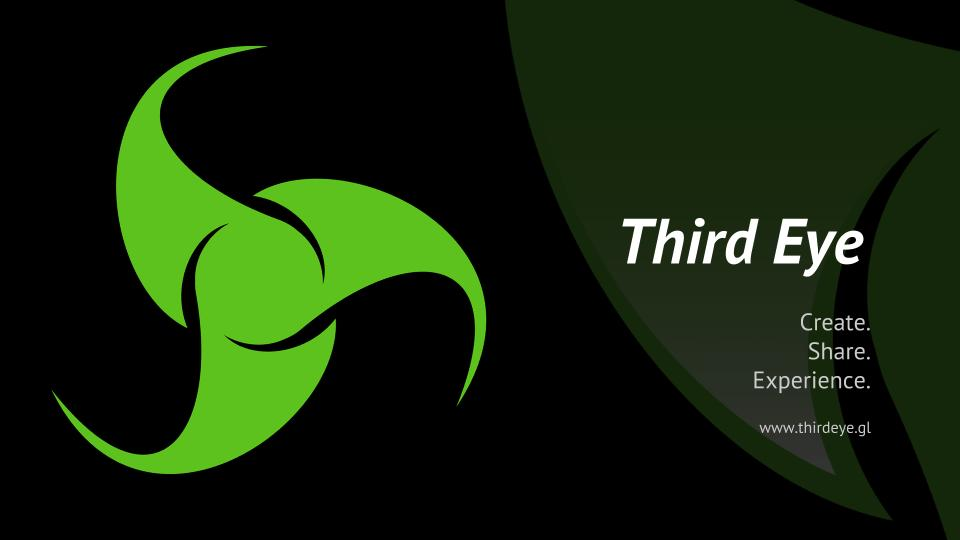
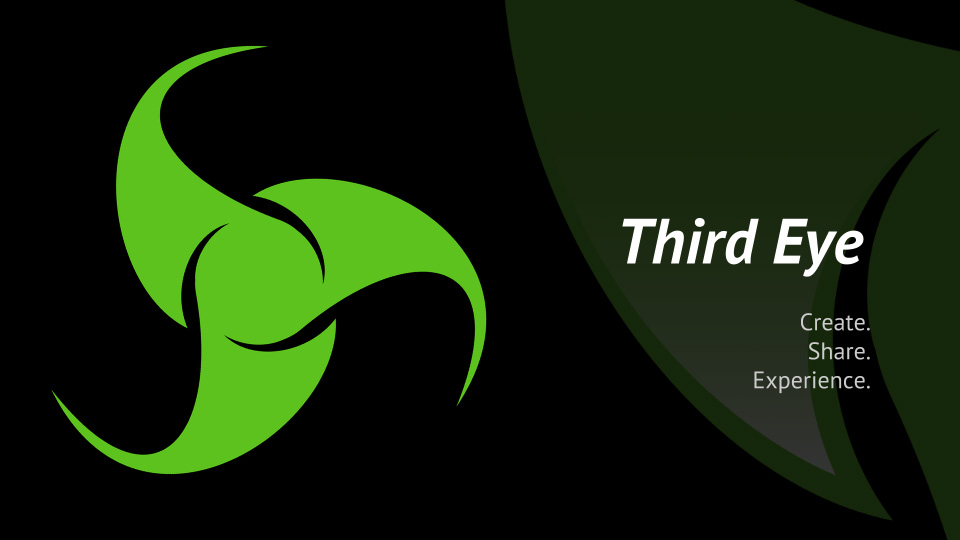
no message

diff --git a/src/index.html b/src/index.html
@@ -10,13 +10,29 @@
 
     <!-- font awesome from BootstrapCDN -->
     <link href="http://netdna.bootstrapcdn.com/font-awesome/4.0.3/css/font-awesome.css" rel="stylesheet">
-    <link href='http://fonts.googleapis.com/css?family=Oswald:400,700,300' rel='stylesheet' type='text/css'>
+    <link href='http://fonts.googleapis.com/css?family=PT+Sans:400,400italic' rel='stylesheet' type='text/css'>
 
-    <!-- compiled CSS --><% styles.forEach( function ( file ) { %>
-    <link rel="stylesheet" type="text/css" href="site/<%= file %>" /><% }); %>
+    <!-- compiled CSS -->
+    <link rel="stylesheet" type="text/css" href="site/ngbp-0.3.2.css" />
     <link href="site/css/3eye.min.css" rel="stylesheet" media="screen">
-    <!-- compiled JavaScript --><% scripts.forEach( function ( file ) { %>
-    <script type="text/javascript" src="site/<%= file %>"></script><% }); %>
+    <!-- compiled JavaScript -->
+    <script type="text/javascript" src="site/vendor/angular/angular.js"></script>
+    <script type="text/javascript" src="site/vendor/angular-bootstrap/ui-bootstrap-tpls.min.js"></script>
+    <script type="text/javascript" src="site/vendor/placeholders/angular-placeholders-0.0.1-SNAPSHOT.min.js"></script>
+    <script type="text/javascript" src="site/vendor/angular-ui-router/release/angular-ui-router.js"></script>
+    <script type="text/javascript" src="site/vendor/scripts/jquery.min.js"></script>
+    <script type="text/javascript" src="site/vendor/scripts/bootstrap.min.js"></script>
+    <script type="text/javascript" src="site/vendor/scripts/jquery.mobile-events.min.js"></script>
+    <script type="text/javascript" src="site/vendor/scripts/velocity.min.js"></script>
+    <script type="text/javascript" src="site/vendor/scripts/velocity.ui.min.js"></script>
+    <script type="text/javascript" src="site/vendor/scripts/init.js"></script>
+    <script type="text/javascript" src="site/src/app/about/about.js"></script>
+    <script type="text/javascript" src="site/src/app/app.js"></script>
+    <script type="text/javascript" src="site/src/app/faq/faq.js"></script>
+    <script type="text/javascript" src="site/src/app/home/home.js"></script>
+    <script type="text/javascript" src="site/src/common/plusOne/plusOne.js"></script>
+    <script type="text/javascript" src="site/templates-common.js"></script>
+    <script type="text/javascript" src="site/templates-app.js"></script>
         <!--
  ______   __  __     __     ______     _____     ______     __  __     ______    
 /\__  _\ /\ \_\ \   /\ \   /\  == \   /\  __-.  /\  ___\   /\ \_\ \   /\  ___\   
@@ -34,13 +50,28 @@
   <body class='glamBody' >
     <div class="hUnit" style="position:relative;">
       <img src="site/images/bg.jpg" style="float:left; width:100%; margin-top: 25px;"/>
-      <div class="glamUp1">
+
+      <!-- <div class="hTxt" style="position:absolute; z-index:999; right: 10%; top: 60%; display:none">
+          <h1 style="color:#fff; font-size:140%">Third Eye</h1>
+          <div style="float:right; width:100%; color: #cacaca; font-size:100%">
+            Create.
+          </div>
+          <div style="float:right; width:100%; color: #cacaca; font-size:100%">
+            Share.
+          </div>
+          <div style="float:right; width:100%; color: #cacaca; font-size:100%">
+            Experience.
+          </div>
+
+      </div> -->
+
+      <div class="glamUp1 thirdEyeLnksVis">
         <a href="https://www.kickstarter.com/projects/dodocase/diy-virtual-reality-open-source-future" target="_blank">
         kick<span style="color:#2bde73">starter</span>
       </a>
       </div>
 
-      <div class="glamUp2">
+      <div class="glamUp2 thirdEyeLnksVis">
         <a href="http://glamjs.org" target="_blank">
         visit the <span style="color:#c81100">GLAM</span> project page
       </a>
@@ -60,6 +91,8 @@
           <div class="navbar-header">
             <a class="navbar-brand logoLnk" > Third Eye </a>
             <a class="demoLnk navbar-brand logoLnk"  href="#about" > About </a>
+            <a class="navbar-brand logoLnk thirdEyeLnks"  href="https://www.kickstarter.com/projects/dodocase/diy-virtual-reality-open-source-future" target="_blank" > kick<span style="color:#2bde73">starter</span> </a>
+            <a class=" navbar-brand logoLnk thirdEyeLnks"  href="http://glamjs.org" target="_blank" > visit the <span style="color:#c81100">GLAM</span> project page </a>
             <a class="demoLnk navbar-brand logoLnk"  href="mailto:tparisi@gmail.com?Subject=Third%20Eye%20Inquiry" > Contact </a>
 
 

diff --git a/build/index.html b/build/index.html
@@ -10,7 +10,7 @@
 
     <!-- font awesome from BootstrapCDN -->
     <link href="http://netdna.bootstrapcdn.com/font-awesome/4.0.3/css/font-awesome.css" rel="stylesheet">
-    <link href='http://fonts.googleapis.com/css?family=Oswald:400,700,300' rel='stylesheet' type='text/css'>
+    <link href='http://fonts.googleapis.com/css?family=PT+Sans:400,400italic' rel='stylesheet' type='text/css'>
 
     <!-- compiled CSS -->
     <link rel="stylesheet" type="text/css" href="site/ngbp-0.3.2.css" />
@@ -50,13 +50,28 @@
   <body class='glamBody' >
     <div class="hUnit" style="position:relative;">
       <img src="site/images/bg.jpg" style="float:left; width:100%; margin-top: 25px;"/>
-      <div class="glamUp1">
+
+      <!-- <div class="hTxt" style="position:absolute; z-index:999; right: 10%; top: 60%; display:none">
+          <h1 style="color:#fff; font-size:140%">Third Eye</h1>
+          <div style="float:right; width:100%; color: #cacaca; font-size:100%">
+            Create.
+          </div>
+          <div style="float:right; width:100%; color: #cacaca; font-size:100%">
+            Share.
+          </div>
+          <div style="float:right; width:100%; color: #cacaca; font-size:100%">
+            Experience.
+          </div>
+
+      </div> -->
+
+      <div class="glamUp1 thirdEyeLnksVis">
         <a href="https://www.kickstarter.com/projects/dodocase/diy-virtual-reality-open-source-future" target="_blank">
         kick<span style="color:#2bde73">starter</span>
       </a>
       </div>
 
-      <div class="glamUp2">
+      <div class="glamUp2 thirdEyeLnksVis">
         <a href="http://glamjs.org" target="_blank">
         visit the <span style="color:#c81100">GLAM</span> project page
       </a>
@@ -76,6 +91,8 @@
           <div class="navbar-header">
             <a class="navbar-brand logoLnk" > Third Eye </a>
             <a class="demoLnk navbar-brand logoLnk"  href="#about" > About </a>
+            <a class="navbar-brand logoLnk thirdEyeLnks"  href="https://www.kickstarter.com/projects/dodocase/diy-virtual-reality-open-source-future" target="_blank" > kick<span style="color:#2bde73">starter</span> </a>
+            <a class=" navbar-brand logoLnk thirdEyeLnks"  href="http://glamjs.org" target="_blank" > visit the <span style="color:#c81100">GLAM</span> project page </a>
             <a class="demoLnk navbar-brand logoLnk"  href="mailto:tparisi@gmail.com?Subject=Third%20Eye%20Inquiry" > Contact </a>
 
 

diff --git a/index.html b/index.html
@@ -10,7 +10,7 @@
 
     <!-- font awesome from BootstrapCDN -->
     <link href="http://netdna.bootstrapcdn.com/font-awesome/4.0.3/css/font-awesome.css" rel="stylesheet">
-    <link href='http://fonts.googleapis.com/css?family=Oswald:400,700,300' rel='stylesheet' type='text/css'>
+    <link href='http://fonts.googleapis.com/css?family=PT+Sans:400,400italic' rel='stylesheet' type='text/css'>
 
     <!-- compiled CSS -->
     <link rel="stylesheet" type="text/css" href="site/ngbp-0.3.2.css" />
@@ -50,13 +50,28 @@
   <body class='glamBody' >
     <div class="hUnit" style="position:relative;">
       <img src="site/images/bg.jpg" style="float:left; width:100%; margin-top: 25px;"/>
-      <div class="glamUp1">
+
+      <!-- <div class="hTxt" style="position:absolute; z-index:999; right: 10%; top: 60%; display:none">
+          <h1 style="color:#fff; font-size:140%">Third Eye</h1>
+          <div style="float:right; width:100%; color: #cacaca; font-size:100%">
+            Create.
+          </div>
+          <div style="float:right; width:100%; color: #cacaca; font-size:100%">
+            Share.
+          </div>
+          <div style="float:right; width:100%; color: #cacaca; font-size:100%">
+            Experience.
+          </div>
+
+      </div> -->
+
+      <div class="glamUp1 thirdEyeLnksVis">
         <a href="https://www.kickstarter.com/projects/dodocase/diy-virtual-reality-open-source-future" target="_blank">
         kick<span style="color:#2bde73">starter</span>
       </a>
       </div>
 
-      <div class="glamUp2">
+      <div class="glamUp2 thirdEyeLnksVis">
         <a href="http://glamjs.org" target="_blank">
         visit the <span style="color:#c81100">GLAM</span> project page
       </a>
@@ -76,6 +91,8 @@
           <div class="navbar-header">
             <a class="navbar-brand logoLnk" > Third Eye </a>
             <a class="demoLnk navbar-brand logoLnk"  href="#about" > About </a>
+            <a class="navbar-brand logoLnk thirdEyeLnks"  href="https://www.kickstarter.com/projects/dodocase/diy-virtual-reality-open-source-future" target="_blank" > kick<span style="color:#2bde73">starter</span> </a>
+            <a class=" navbar-brand logoLnk thirdEyeLnks"  href="http://glamjs.org" target="_blank" > visit the <span style="color:#c81100">GLAM</span> project page </a>
             <a class="demoLnk navbar-brand logoLnk"  href="mailto:tparisi@gmail.com?Subject=Third%20Eye%20Inquiry" > Contact </a>
 
 

diff --git a/build/site/css/3eye.min.css b/build/site/css/3eye.min.css
@@ -7,6 +7,11 @@
     -webkit-text-size-adjust: 100%;
     -ms-text-size-adjust: 100%;
 }
+
+.thirdEyeLnksVis{
+        display: none;
+}
+
 .glamUp1 a, .glamUp2 a, .glamUp1 a:active, .glamUp2 a:active, .glamUp1 a:hover, .glamUp2 a:hover{
     color:#fff;
     text-decoration: none;
@@ -4119,6 +4124,7 @@ textarea.input-group-sm>.form-control,textarea.input-group-sm>.input-group-addon
 }
 
 .navbar-collapse {
+
     padding-right: 15px;
     padding-left: 15px;
     overflow-x: visible;
@@ -6522,6 +6528,17 @@ button.close {
     }
 }
 
+@media (max-width:689px) {
+    
+    .thirdEyeLnks{
+        display: none;
+    }
+
+    .thirdEyeLnksVis{
+        display: block;
+    }
+}
+
 @media (min-width:768px) and (max-width:991px) {
     .visible-sm {
         display: block!important;
@@ -6716,7 +6733,7 @@ button.close {
 body,.navbar {
     padding: 0;
     margin: 0;
-    font-family: 'Oswald',sans-serif;
+    font-family: 'PT Sans',sans-serif;
     color: #000;
     background: #fff;
 }
@@ -7898,7 +7915,23 @@ body {
 .container .text-muted {
   margin: 20px 0;
 }
+@media (min-width: 768px)
+{
+    .navbar-header
+    {
+        float: none;
+    }
 
+    .navbar-toggle
+    {
+        display: block;
+    }
+
+    .navbar-collapse.collapse
+    {
+        display: none !important;
+    }
+}
 
 
 /* glam css end */

diff --git a/site/css/3eye.min.css b/site/css/3eye.min.css
@@ -7,6 +7,11 @@
     -webkit-text-size-adjust: 100%;
     -ms-text-size-adjust: 100%;
 }
+
+.thirdEyeLnksVis{
+        display: none;
+}
+
 .glamUp1 a, .glamUp2 a, .glamUp1 a:active, .glamUp2 a:active, .glamUp1 a:hover, .glamUp2 a:hover{
     color:#fff;
     text-decoration: none;
@@ -4119,6 +4124,7 @@ textarea.input-group-sm>.form-control,textarea.input-group-sm>.input-group-addon
 }
 
 .navbar-collapse {
+
     padding-right: 15px;
     padding-left: 15px;
     overflow-x: visible;
@@ -6522,6 +6528,17 @@ button.close {
     }
 }
 
+@media (max-width:689px) {
+    
+    .thirdEyeLnks{
+        display: none;
+    }
+
+    .thirdEyeLnksVis{
+        display: block;
+    }
+}
+
 @media (min-width:768px) and (max-width:991px) {
     .visible-sm {
         display: block!important;
@@ -6716,7 +6733,7 @@ button.close {
 body,.navbar {
     padding: 0;
     margin: 0;
-    font-family: 'Oswald',sans-serif;
+    font-family: 'PT Sans',sans-serif;
     color: #000;
     background: #fff;
 }
@@ -7898,7 +7915,23 @@ body {
 .container .text-muted {
   margin: 20px 0;
 }
+@media (min-width: 768px)
+{
+    .navbar-header
+    {
+        float: none;
+    }
 
+    .navbar-toggle
+    {
+        display: block;
+    }
+
+    .navbar-collapse.collapse
+    {
+        display: none !important;
+    }
+}
 
 
 /* glam css end */

diff --git a/src/site/css/3eye.min.css b/src/site/css/3eye.min.css
@@ -7,6 +7,11 @@
     -webkit-text-size-adjust: 100%;
     -ms-text-size-adjust: 100%;
 }
+
+.thirdEyeLnksVis{
+        display: none;
+}
+
 .glamUp1 a, .glamUp2 a, .glamUp1 a:active, .glamUp2 a:active, .glamUp1 a:hover, .glamUp2 a:hover{
     color:#fff;
     text-decoration: none;
@@ -4119,6 +4124,7 @@ textarea.input-group-sm>.form-control,textarea.input-group-sm>.input-group-addon
 }
 
 .navbar-collapse {
+
     padding-right: 15px;
     padding-left: 15px;
     overflow-x: visible;
@@ -6522,6 +6528,17 @@ button.close {
     }
 }
 
+@media (max-width:689px) {
+    
+    .thirdEyeLnks{
+        display: none;
+    }
+
+    .thirdEyeLnksVis{
+        display: block;
+    }
+}
+
 @media (min-width:768px) and (max-width:991px) {
     .visible-sm {
         display: block!important;
@@ -6716,7 +6733,7 @@ button.close {
 body,.navbar {
     padding: 0;
     margin: 0;
-    font-family: 'Oswald',sans-serif;
+    font-family: 'PT Sans',sans-serif;
     color: #000;
     background: #fff;
 }
@@ -7898,7 +7915,23 @@ body {
 .container .text-muted {
   margin: 20px 0;
 }
+@media (min-width: 768px)
+{
+    .navbar-header
+    {
+        float: none;
+    }
 
+    .navbar-toggle
+    {
+        display: block;
+    }
+
+    .navbar-collapse.collapse
+    {
+        display: none !important;
+    }
+}
 
 
 /* glam css end */
